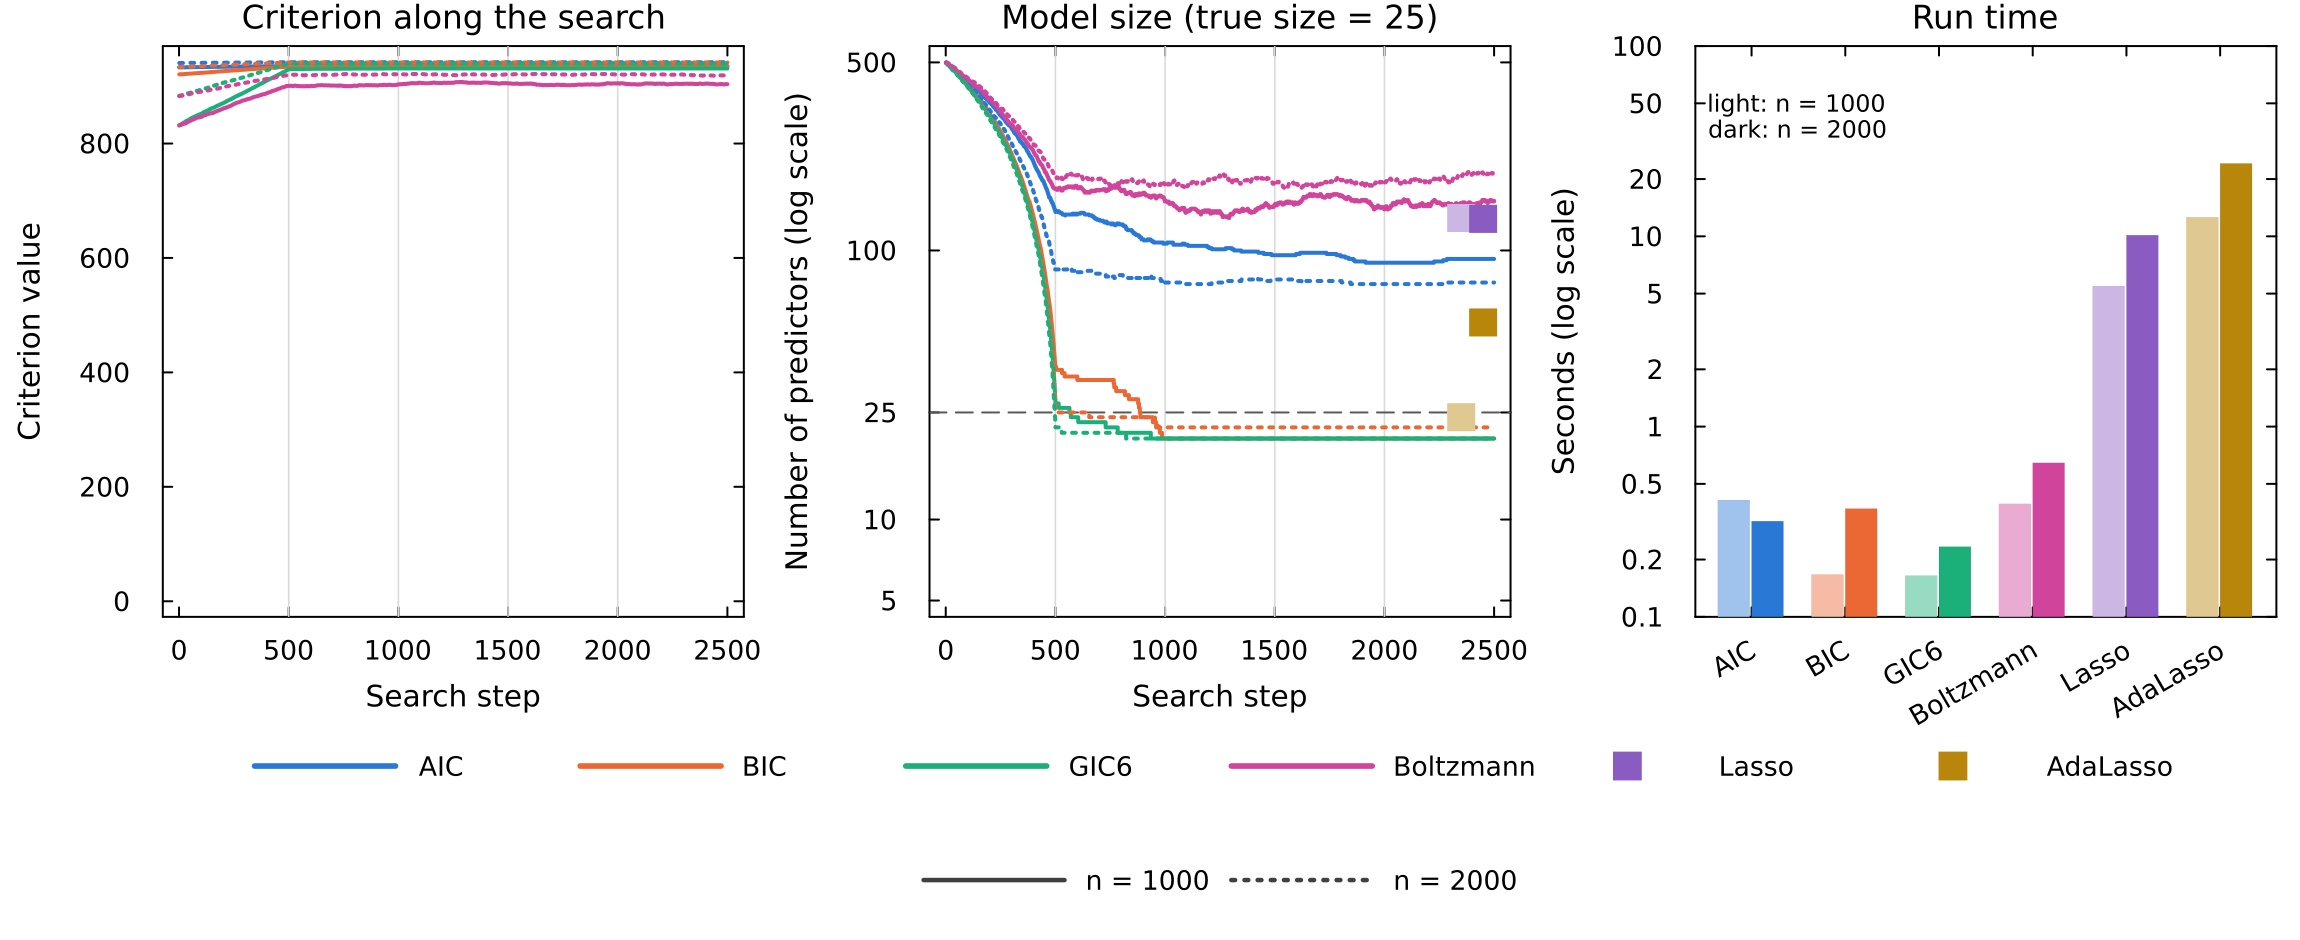
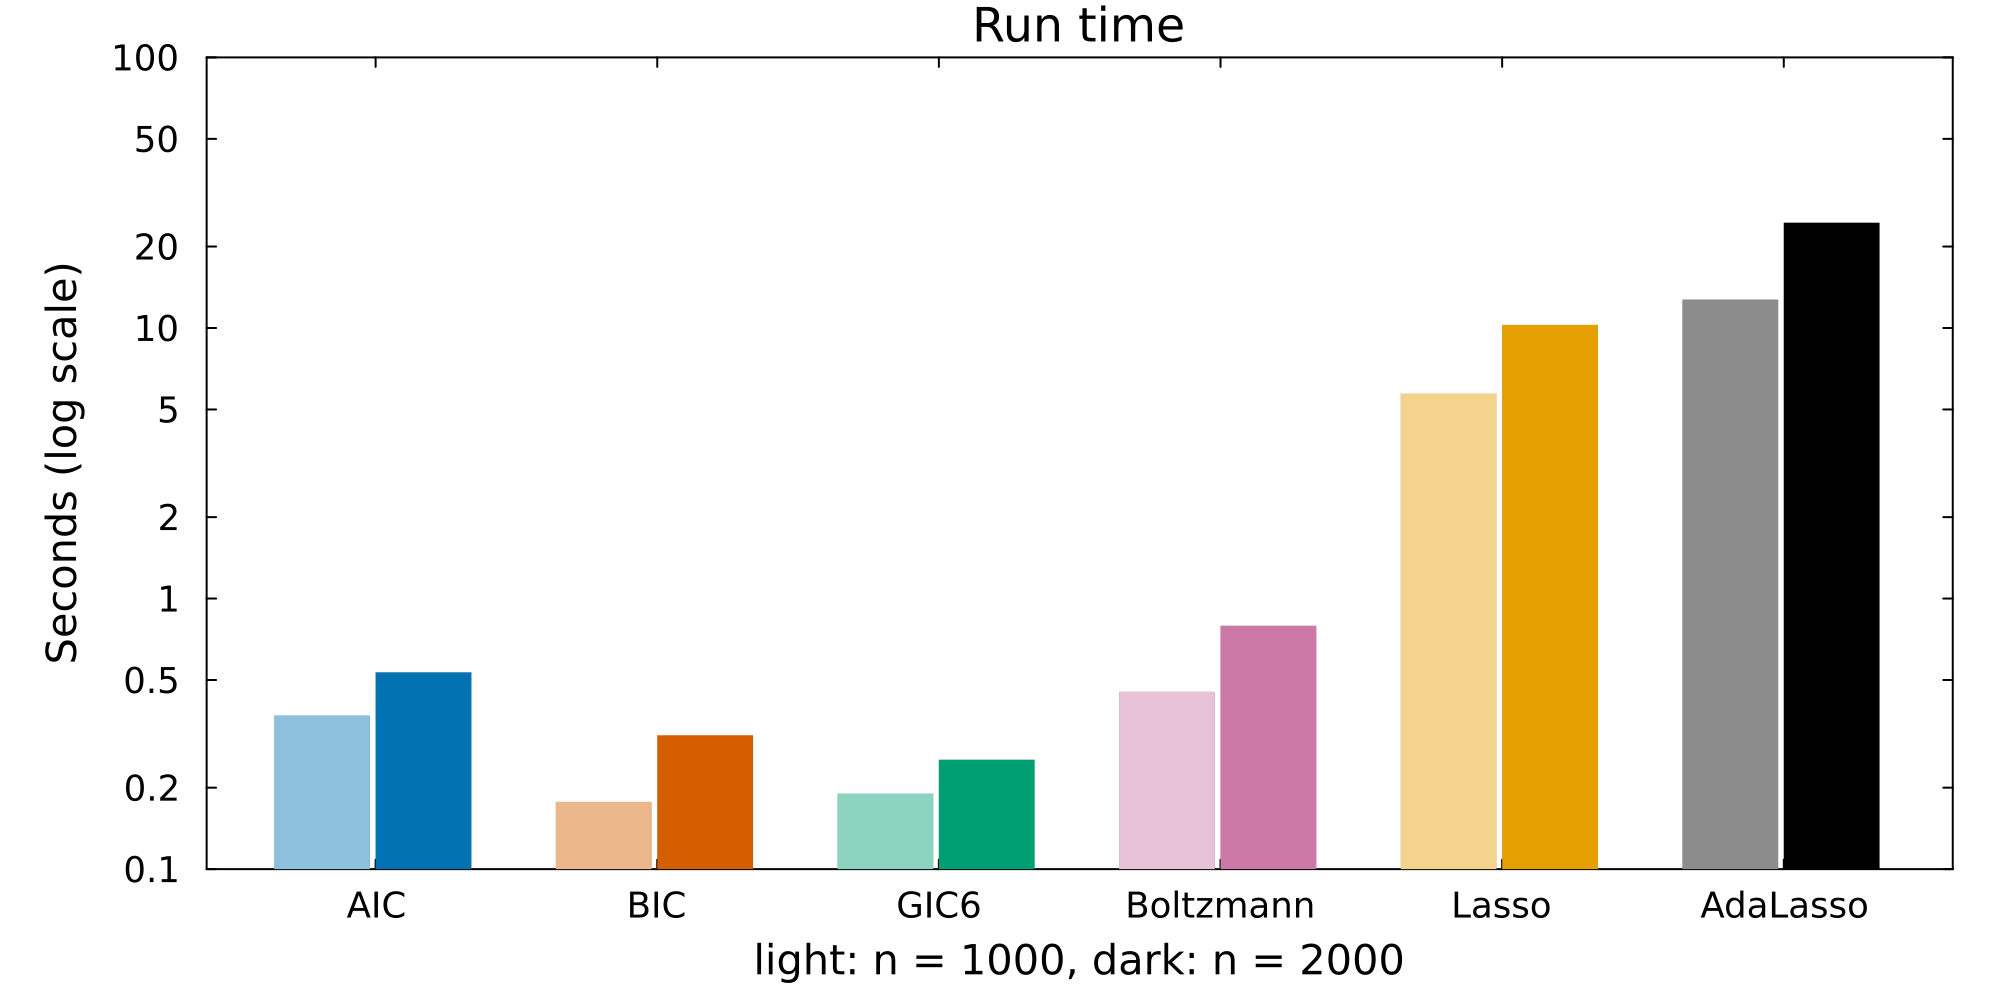
Examples: split each figure into three full-width figures; use the R colours
Each example now has separate criterion, model-size and run-time figures,
each at full page width with its own legend, drawn in the same Okabe-Ito
colours as the R README. Rerunning the examples refreshed the run times.

diff --git a/README.md b/README.md
@@ -175,8 +175,9 @@ takes the same arguments, with `k` and `Nsim` as keywords.
 
 Each table reports the size, false positives and false negatives of the
 selected model, and the wall-clock time of each method in seconds (Apple M1
-Pro laptop, Julia 1.11, after Julia has compiled). The right-hand panel of
-each figure shows the same times.
+Pro laptop, Julia 1.11, after Julia has compiled). Three figures follow each
+table: the criterion along the search, the model size along the search, and
+the same run times as the table.
 
 <!-- Helper functions used in the examples (hidden; run by docs/readme_figures.jl)
 
@@ -292,7 +293,7 @@ for $n = 2000$. Light grey vertical lines mark a new pass over the
 predictors, and the dashed line marks the true model size. Criteria with
 larger penalties take lower values, so compare the shapes of the curves, not
 their heights. The lasso and adaptive lasso have no search path; squares at
-the right edge of the middle panel mark their model sizes (light: $n = 1000$,
+the right edge of the model-size figure mark their model sizes (light: $n = 1000$,
 dark: $n = 2000$). The script
 [`docs/readme_figures.jl`](docs/readme_figures.jl) runs the code in this
 section and redraws the figures.
@@ -336,21 +337,25 @@ Y = LP_to_Y(X, beta, "Normal"; std = sqrt(sum(abs2, beta) / 0.71))
 fits = compare_criteria(X, Y, 1:p, p; Nsim = 5)
 selection_table(fits, true_cols)
 #>                  size false_pos false_neg seconds
-#> n1000 AIC         119       114         0    0.27
-#> n1000 BIC          10         5         0    0.26
-#> n1000 GIC6          5         0         0    0.15
-#> n1000 Boltzmann     5         0         0    0.15
-#> n1000 Lasso        11         6         0    2.09
-#> n1000 AdaLasso     44        39         0    4.82
-#> n2000 AIC          97        92         0     0.4
-#> n2000 BIC          10         5         0    0.25
-#> n2000 GIC6          5         0         0    0.32
-#> n2000 Boltzmann    17        12         0    0.24
-#> n2000 Lasso        23        18         0    2.86
-#> n2000 AdaLasso     39        34         0    7.88
+#> n1000 AIC         119       114         0    0.38
+#> n1000 BIC          10         5         0    0.18
+#> n1000 GIC6          5         0         0     0.2
+#> n1000 Boltzmann     5         0         0     0.2
+#> n1000 Lasso        11         6         0     2.2
+#> n1000 AdaLasso     44        39         0    5.05
+#> n2000 AIC          97        92         0    0.59
+#> n2000 BIC          10         5         0    0.42
+#> n2000 GIC6          5         0         0     0.3
+#> n2000 Boltzmann    17        12         0    0.53
+#> n2000 Lasso        23        18         0    2.94
+#> n2000 AdaLasso     39        34         0    8.25
 ```
 
-![Criteria, model size and run time, linear model with p = 500](docs/figures/README-linear-runtime.png)
+![Criterion along the search, linear model with p = 500](docs/figures/README-linear-criterion.png)
+
+![Model size along the search, linear model with p = 500](docs/figures/README-linear-size.png)
+
+![Run time, linear model with p = 500](docs/figures/README-linear-runtime.png)
 
 
 ### Multivariate normal
@@ -373,21 +378,25 @@ true_union = sort(unique(reduce(vcat, true_by_response)))
 fits = compare_criteria(X, Y_multi, 1:p, p; Nsim = 5, lasso_family = MvNormal())
 selection_table(fits, true_union)
 #>                  size false_pos false_neg seconds
-#> n1000 AIC          93        69         1    0.41
-#> n1000 BIC          20         0         5    0.17
-#> n1000 GIC6         20         0         5    0.16
-#> n1000 Boltzmann   152       130         3    0.39
-#> n1000 Lasso       132       107         0    5.47
-#> n1000 AdaLasso     24         2         3   12.59
-#> n2000 AIC          76        51         0    0.32
-#> n2000 BIC          22         0         3    0.37
-#> n2000 GIC6         20         0         5    0.23
-#> n2000 Boltzmann   193       173         5    0.64
-#> n2000 Lasso       131       106         0   10.14
-#> n2000 AdaLasso     54        30         1   24.15
+#> n1000 AIC          93        69         1    0.37
+#> n1000 BIC          20         0         5    0.18
+#> n1000 GIC6         20         0         5    0.19
+#> n1000 Boltzmann   152       130         3    0.45
+#> n1000 Lasso       132       107         0    5.72
+#> n1000 AdaLasso     24         2         3   12.73
+#> n2000 AIC          76        51         0    0.53
+#> n2000 BIC          22         0         3    0.31
+#> n2000 GIC6         20         0         5    0.25
+#> n2000 Boltzmann   193       173         5    0.79
+#> n2000 Lasso       131       106         0   10.28
+#> n2000 AdaLasso     54        30         1   24.49
 ```
 
-![Criteria, model size and run time, multivariate normal response](docs/figures/README-multivariate-runtime.png)
+![Criterion along the search, multivariate normal response](docs/figures/README-multivariate-criterion.png)
+
+![Model size along the search, multivariate normal response](docs/figures/README-multivariate-size.png)
+
+![Run time, multivariate normal response](docs/figures/README-multivariate-runtime.png)
 
 
 ### Generalized linear models
@@ -420,15 +429,15 @@ selection_table(fits, true_cols)
 #> n1000 AIC          49        45         1    0.01
 #> n1000 BIC           7         2         0     0.0
 #> n1000 GIC6          5         0         0     0.0
-#> n1000 Boltzmann    49        48         4    0.02
-#> n1000 Lasso        24        19         0    5.73
-#> n1000 AdaLasso      5         0         0    7.04
-#> n2000 AIC          49        44         0    0.15
+#> n1000 Boltzmann    49        48         4    0.01
+#> n1000 Lasso        24        19         0    5.78
+#> n1000 AdaLasso      5         0         0    7.12
+#> n2000 AIC          49        44         0    0.11
 #> n2000 BIC           6         1         0    0.01
 #> n2000 GIC6          5         0         0    0.01
 #> n2000 Boltzmann    49        48         4    0.02
-#> n2000 Lasso        28        23         0    4.72
-#> n2000 AdaLasso      5         0         0   13.55
+#> n2000 Lasso        28        23         0    4.79
+#> n2000 AdaLasso      5         0         0   13.66
 
 # Coefficients of the GIC6 model for n = 2000, intercept first
 round.(Beta_estimate(y_pois, X[:, last_model(fits.n2000.GIC6)]; family = "Poisson"), digits = 2)
@@ -441,7 +450,11 @@ round.(Beta_estimate(y_pois, X[:, last_model(fits.n2000.GIC6)]; family = "Poisso
 #>   0.59
 ```
 
-![Criteria, model size and run time, Poisson response](docs/figures/README-poisson-runtime.png)
+![Criterion along the search, Poisson response](docs/figures/README-poisson-criterion.png)
+
+![Model size along the search, Poisson response](docs/figures/README-poisson-size.png)
+
+![Run time, Poisson response](docs/figures/README-poisson-runtime.png)
 
 #### Binomial counts (10 trials)
 
@@ -453,18 +466,22 @@ selection_table(fits, true_cols)
 #> n1000 AIC          49        44         0    0.01
 #> n1000 BIC          10         5         0    0.01
 #> n1000 GIC6          5         0         0     0.0
-#> n1000 Boltzmann     5         0         0    0.01
-#> n1000 Lasso        31        26         0    3.36
-#> n1000 AdaLasso     69        64         0     7.2
-#> n2000 AIC          49        45         1    0.11
+#> n1000 Boltzmann     5         0         0    0.02
+#> n1000 Lasso        31        26         0    3.45
+#> n1000 AdaLasso     69        64         0    7.28
+#> n2000 AIC          49        45         1    0.02
 #> n2000 BIC          10         5         0    0.01
 #> n2000 GIC6          5         0         0    0.01
 #> n2000 Boltzmann     5         0         0    0.01
-#> n2000 Lasso        27        22         0    4.26
-#> n2000 AdaLasso     34        29         0   13.15
+#> n2000 Lasso        27        22         0    4.31
+#> n2000 AdaLasso     34        29         0    13.5
 ```
 
-![Criteria, model size and run time, binomial response](docs/figures/README-binomial-runtime.png)
+![Criterion along the search, binomial response](docs/figures/README-binomial-criterion.png)
+
+![Model size along the search, binomial response](docs/figures/README-binomial-size.png)
+
+![Run time, binomial response](docs/figures/README-binomial-runtime.png)
 
 #### Multinomial (three categories)
 
@@ -480,20 +497,24 @@ fits = compare_glm(y_mn, onehot, Multinomial(), "Multinomial"; n_categories = 3)
 selection_table(fits, true_cols)
 #>                  size false_pos false_neg seconds
 #> n1000 AIC          49        45         1    0.02
-#> n1000 BIC           6         1         0    0.01
+#> n1000 BIC           6         1         0     0.0
 #> n1000 GIC6          5         0         0     0.0
-#> n1000 Boltzmann    18        13         0    0.01
-#> n1000 Lasso        58        53         0    14.8
-#> n1000 AdaLasso     15        10         0   12.71
-#> n2000 AIC          49        45         1    0.02
-#> n2000 BIC           8         3         0    0.01
+#> n1000 Boltzmann    18        13         0    0.02
+#> n1000 Lasso        58        53         0   15.72
+#> n1000 AdaLasso     15        10         0   13.18
+#> n2000 AIC          49        45         1    0.14
+#> n2000 BIC           8         3         0    0.09
 #> n2000 GIC6          5         0         0    0.01
-#> n2000 Boltzmann    42        37         0    0.15
-#> n2000 Lasso        79        74         0   28.99
-#> n2000 AdaLasso     15        10         0   25.18
+#> n2000 Boltzmann    42        37         0    0.05
+#> n2000 Lasso        79        74         0   29.62
+#> n2000 AdaLasso     15        10         0   25.73
 ```
 
-![Criteria, model size and run time, multinomial response](docs/figures/README-multinomial-runtime.png)
+![Criterion along the search, multinomial response](docs/figures/README-multinomial-criterion.png)
+
+![Model size along the search, multinomial response](docs/figures/README-multinomial-size.png)
+
+![Run time, multinomial response](docs/figures/README-multinomial-runtime.png)
 
 ## License
 
